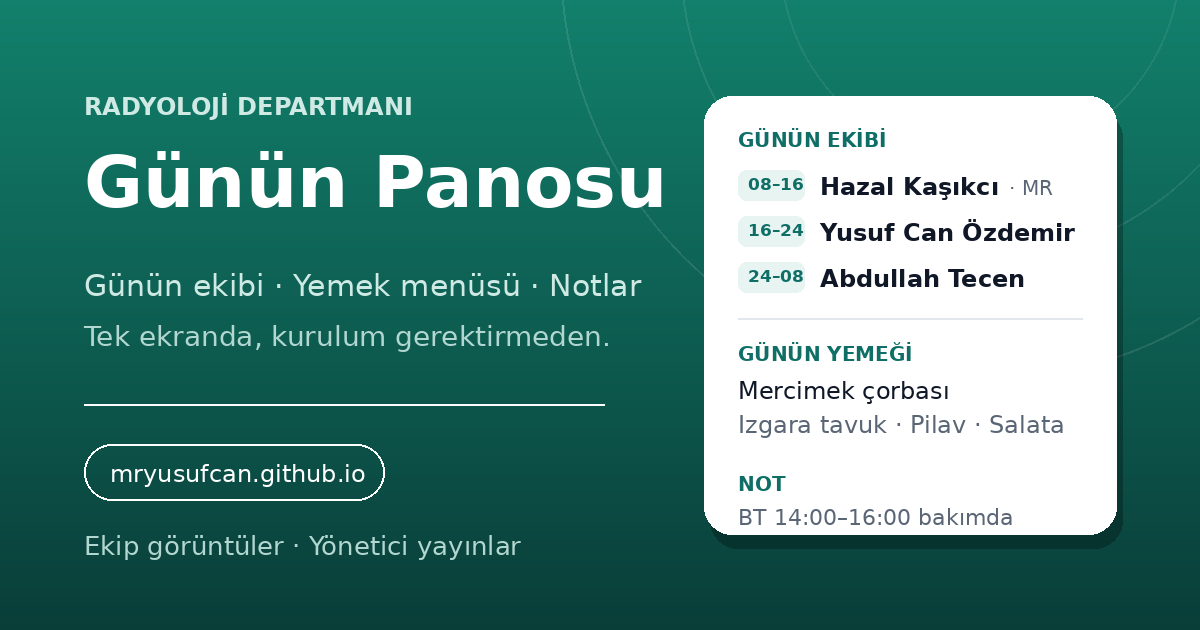
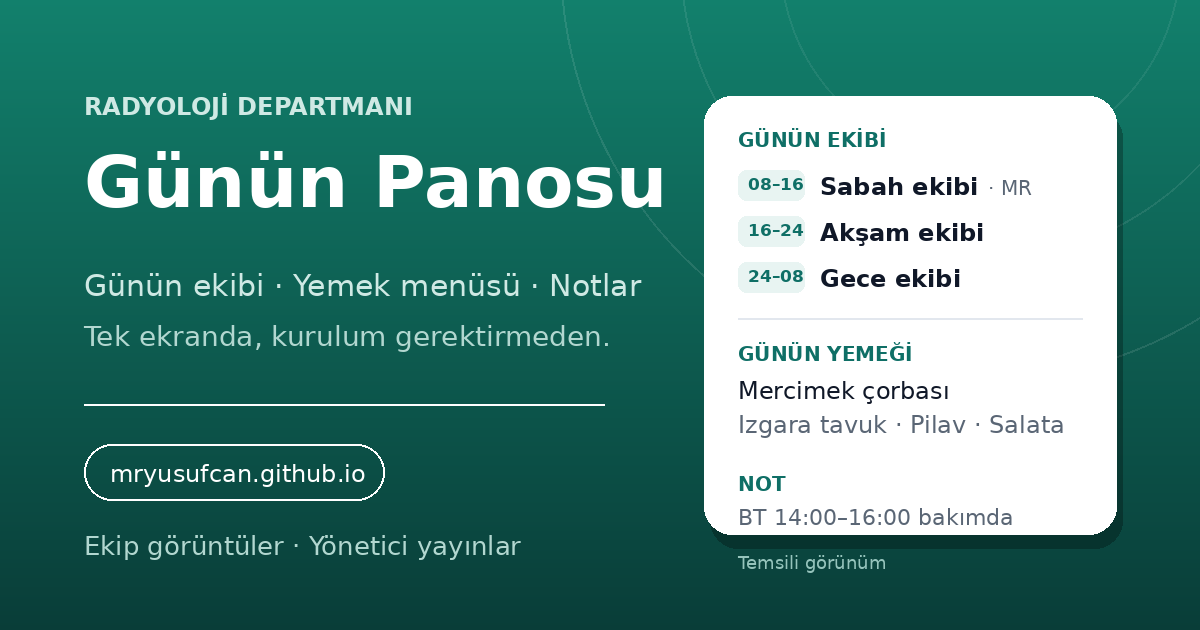
Paylaşım görseli: gerçek isimler yerine temsili etiketler

Changed region(s): [[0.6783, 0.2714, 0.8942, 0.3921], [0.6783, 0.4222, 0.8633, 0.4524], [0.6167, 0.8746, 0.74, 0.9048]]

diff --git a/index.html b/index.html
@@ -16,8 +16,8 @@
     <meta property="og:url" content="https://mryusufcan.github.io/gunluk-pano/" />
     <meta property="og:title" content="Günün Panosu · Radyoloji" />
     <meta property="og:description" content="Günün ekibi, yemek menüsü, notlar ve telefon rehberi tek ekranda. Ekip görüntüler, yönetici yayınlar." />
-    <meta property="og:image" content="https://mryusufcan.github.io/gunluk-pano/assets/onizleme.png" />
-    <meta property="og:image:secure_url" content="https://mryusufcan.github.io/gunluk-pano/assets/onizleme.png" />
+    <meta property="og:image" content="https://mryusufcan.github.io/gunluk-pano/assets/onizleme.png?v=2" />
+    <meta property="og:image:secure_url" content="https://mryusufcan.github.io/gunluk-pano/assets/onizleme.png?v=2" />
     <meta property="og:image:type" content="image/png" />
     <meta property="og:image:width" content="1200" />
     <meta property="og:image:height" content="630" />
@@ -26,7 +26,7 @@
     <meta name="twitter:card" content="summary_large_image" />
     <meta name="twitter:title" content="Günün Panosu · Radyoloji" />
     <meta name="twitter:description" content="Günün ekibi, yemek menüsü, notlar ve telefon rehberi tek ekranda." />
-    <meta name="twitter:image" content="https://mryusufcan.github.io/gunluk-pano/assets/onizleme.png" />
+    <meta name="twitter:image" content="https://mryusufcan.github.io/gunluk-pano/assets/onizleme.png?v=2" />
     <meta name="twitter:image:alt" content="Günün Panosu: radyoloji günlük pano ekranı" />
 
     <link rel="icon" href="./assets/ikon.svg" type="image/svg+xml" />

diff --git a/tools/make_preview.py b/tools/make_preview.py
@@ -67,9 +67,9 @@ draw.rounded_rectangle((card_x0, card_y0, card_x1, card_y1), radius=28, fill=CAR
 pad = 34
 draw.text((card_x0 + pad, card_y0 + 32), "GÜNÜN EKİBİ", font=bold(20), fill=TEAL)
 rows = [
-    ("08–16", "Hazal Kaşıkcı", "MR"),
-    ("16–24", "Yusuf Can Özdemir", ""),
-    ("24–08", "Abdullah Tecen", ""),
+    ("08–16", "Sabah ekibi", "MR"),
+    ("16–24", "Akşam ekibi", ""),
+    ("24–08", "Gece ekibi", ""),
 ]
 row_font = bold(24)
 meta_font = regular(20)
@@ -93,6 +93,9 @@ draw.text((card_x0 + pad, y + 34), "Izgara tavuk · Pilav · Salata", font=regul
 y += 96
 draw.text((card_x0 + pad, y), "NOT", font=bold(20), fill=TEAL)
 draw.text((card_x0 + pad, y + 32), "BT 14:00–16:00 bakımda", font=regular(22), fill=MUTED)
+
+# Kart altına temsili olduğu notu
+draw.text((card_x0 + pad, 552), "Temsili görünüm", font=regular(18), fill=(150, 196, 188))
 
 image.save(OUT, "PNG", optimize=True)
 print("yazıldı:", os.path.abspath(OUT), image.size)
